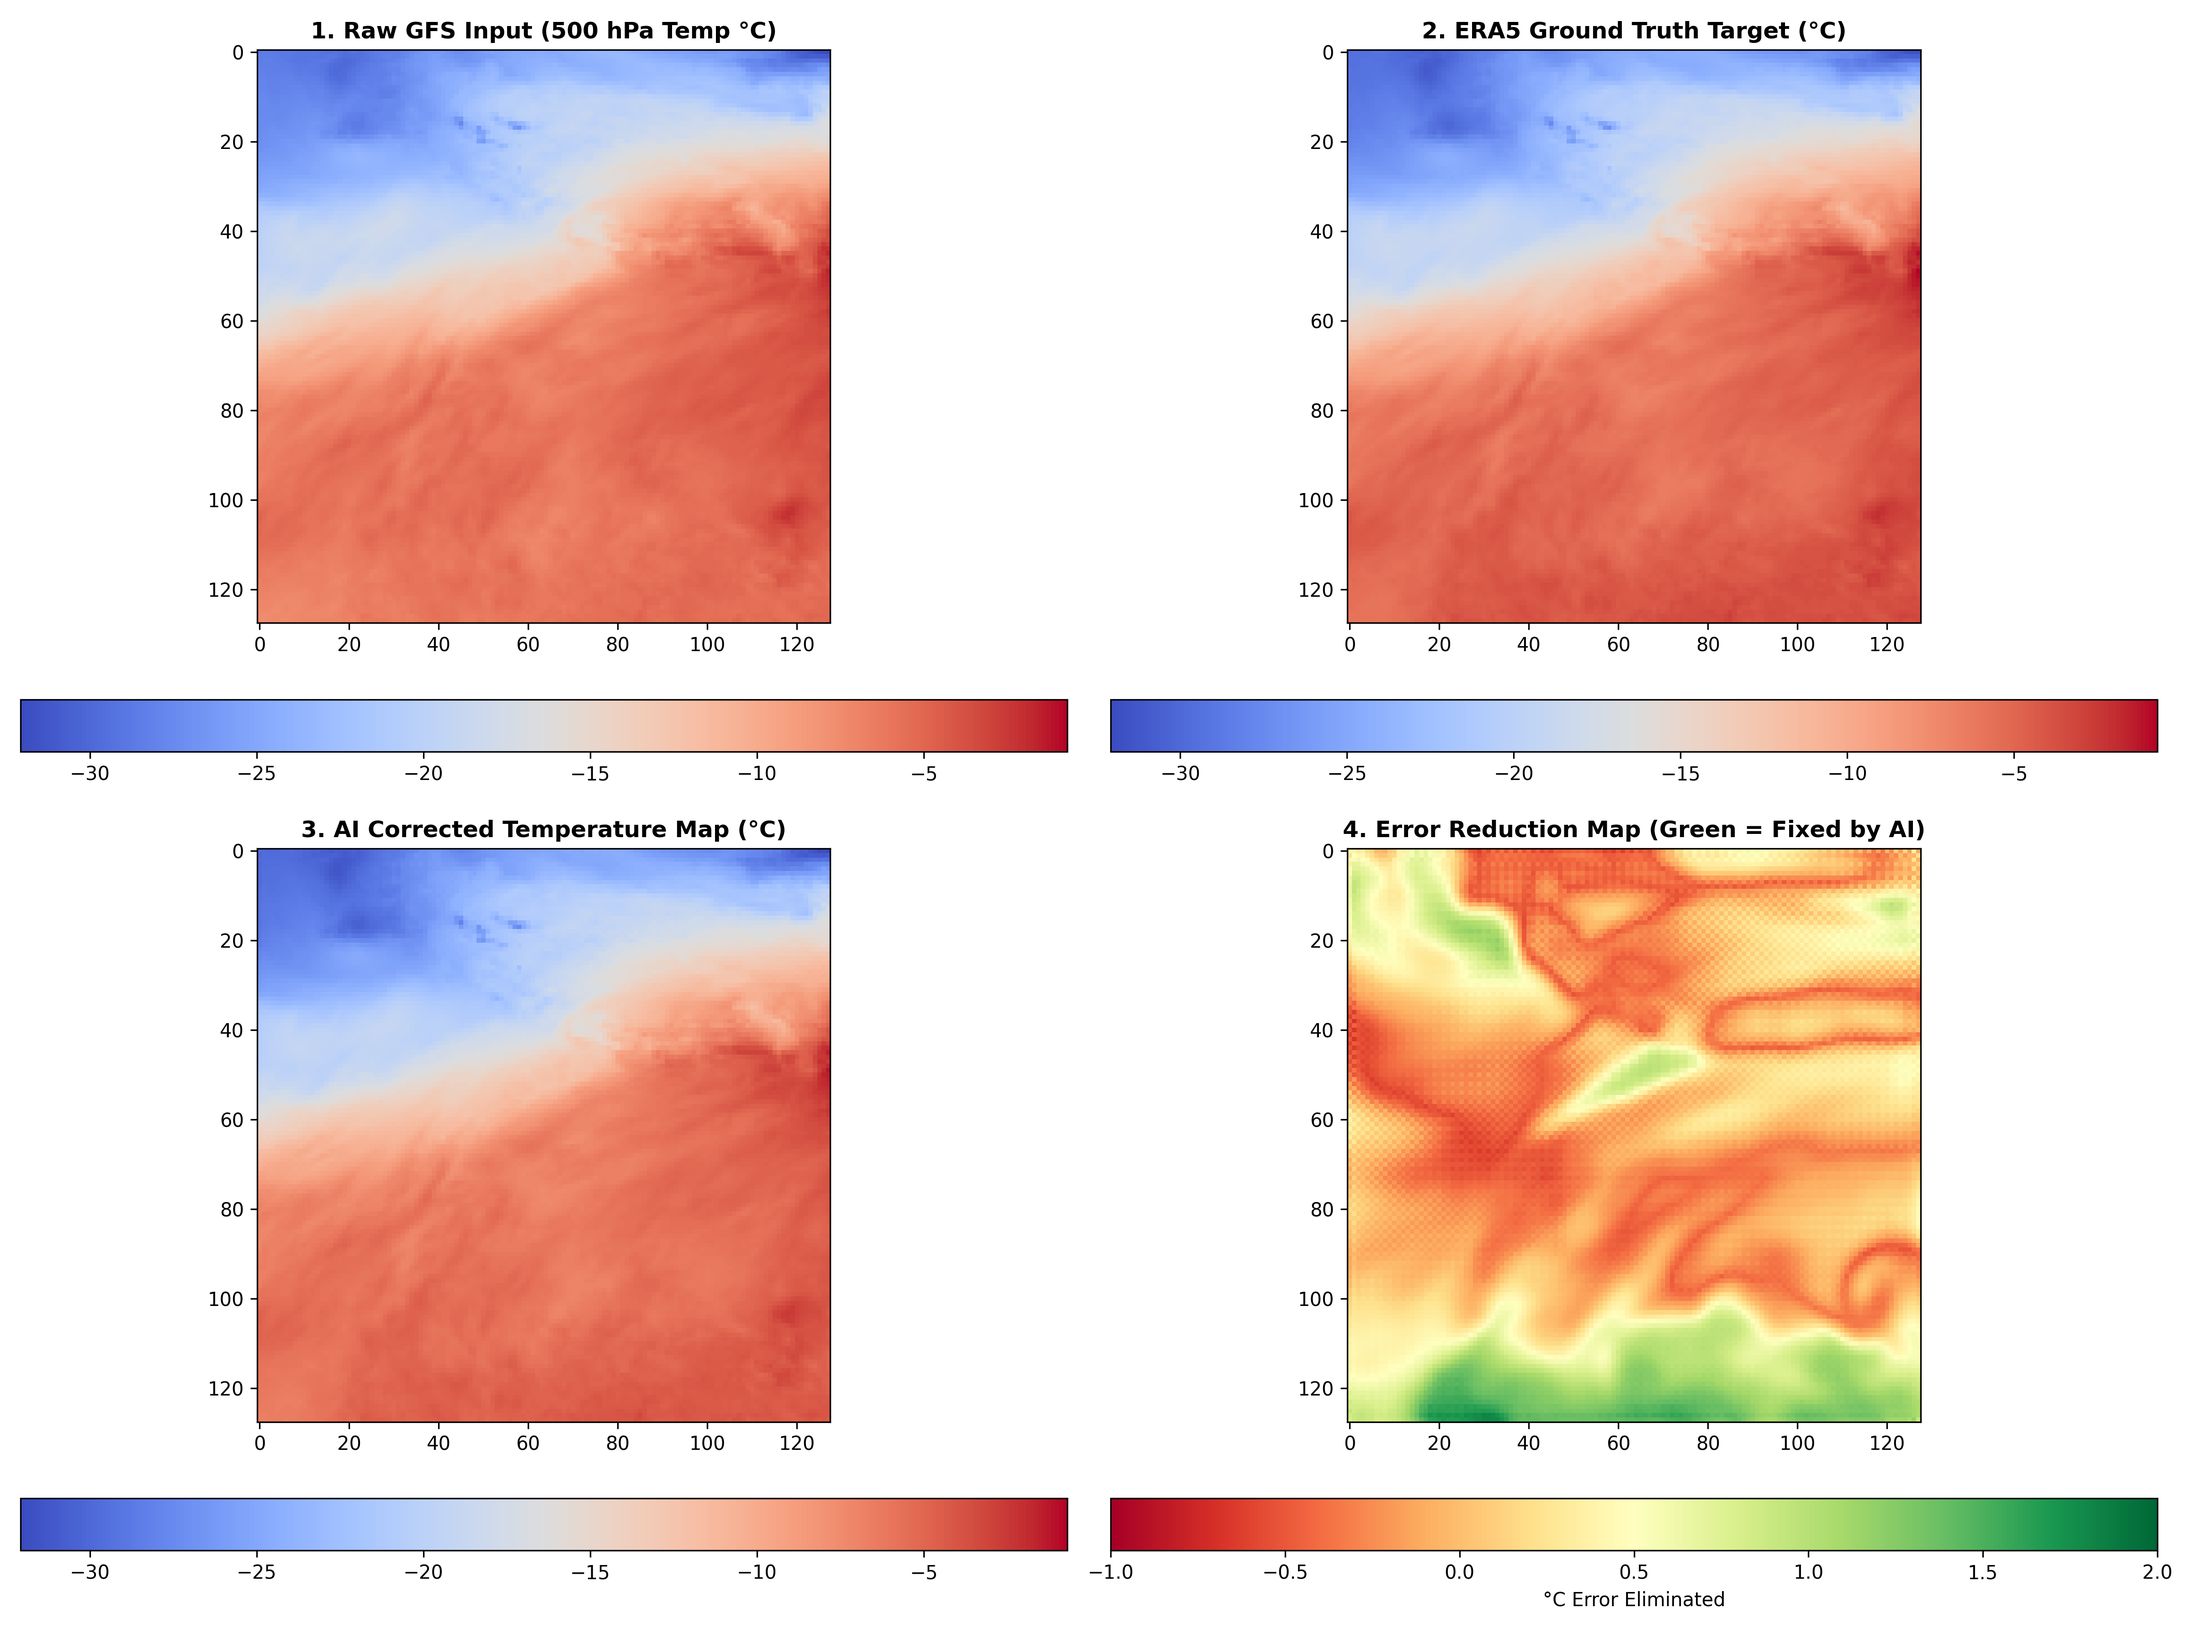
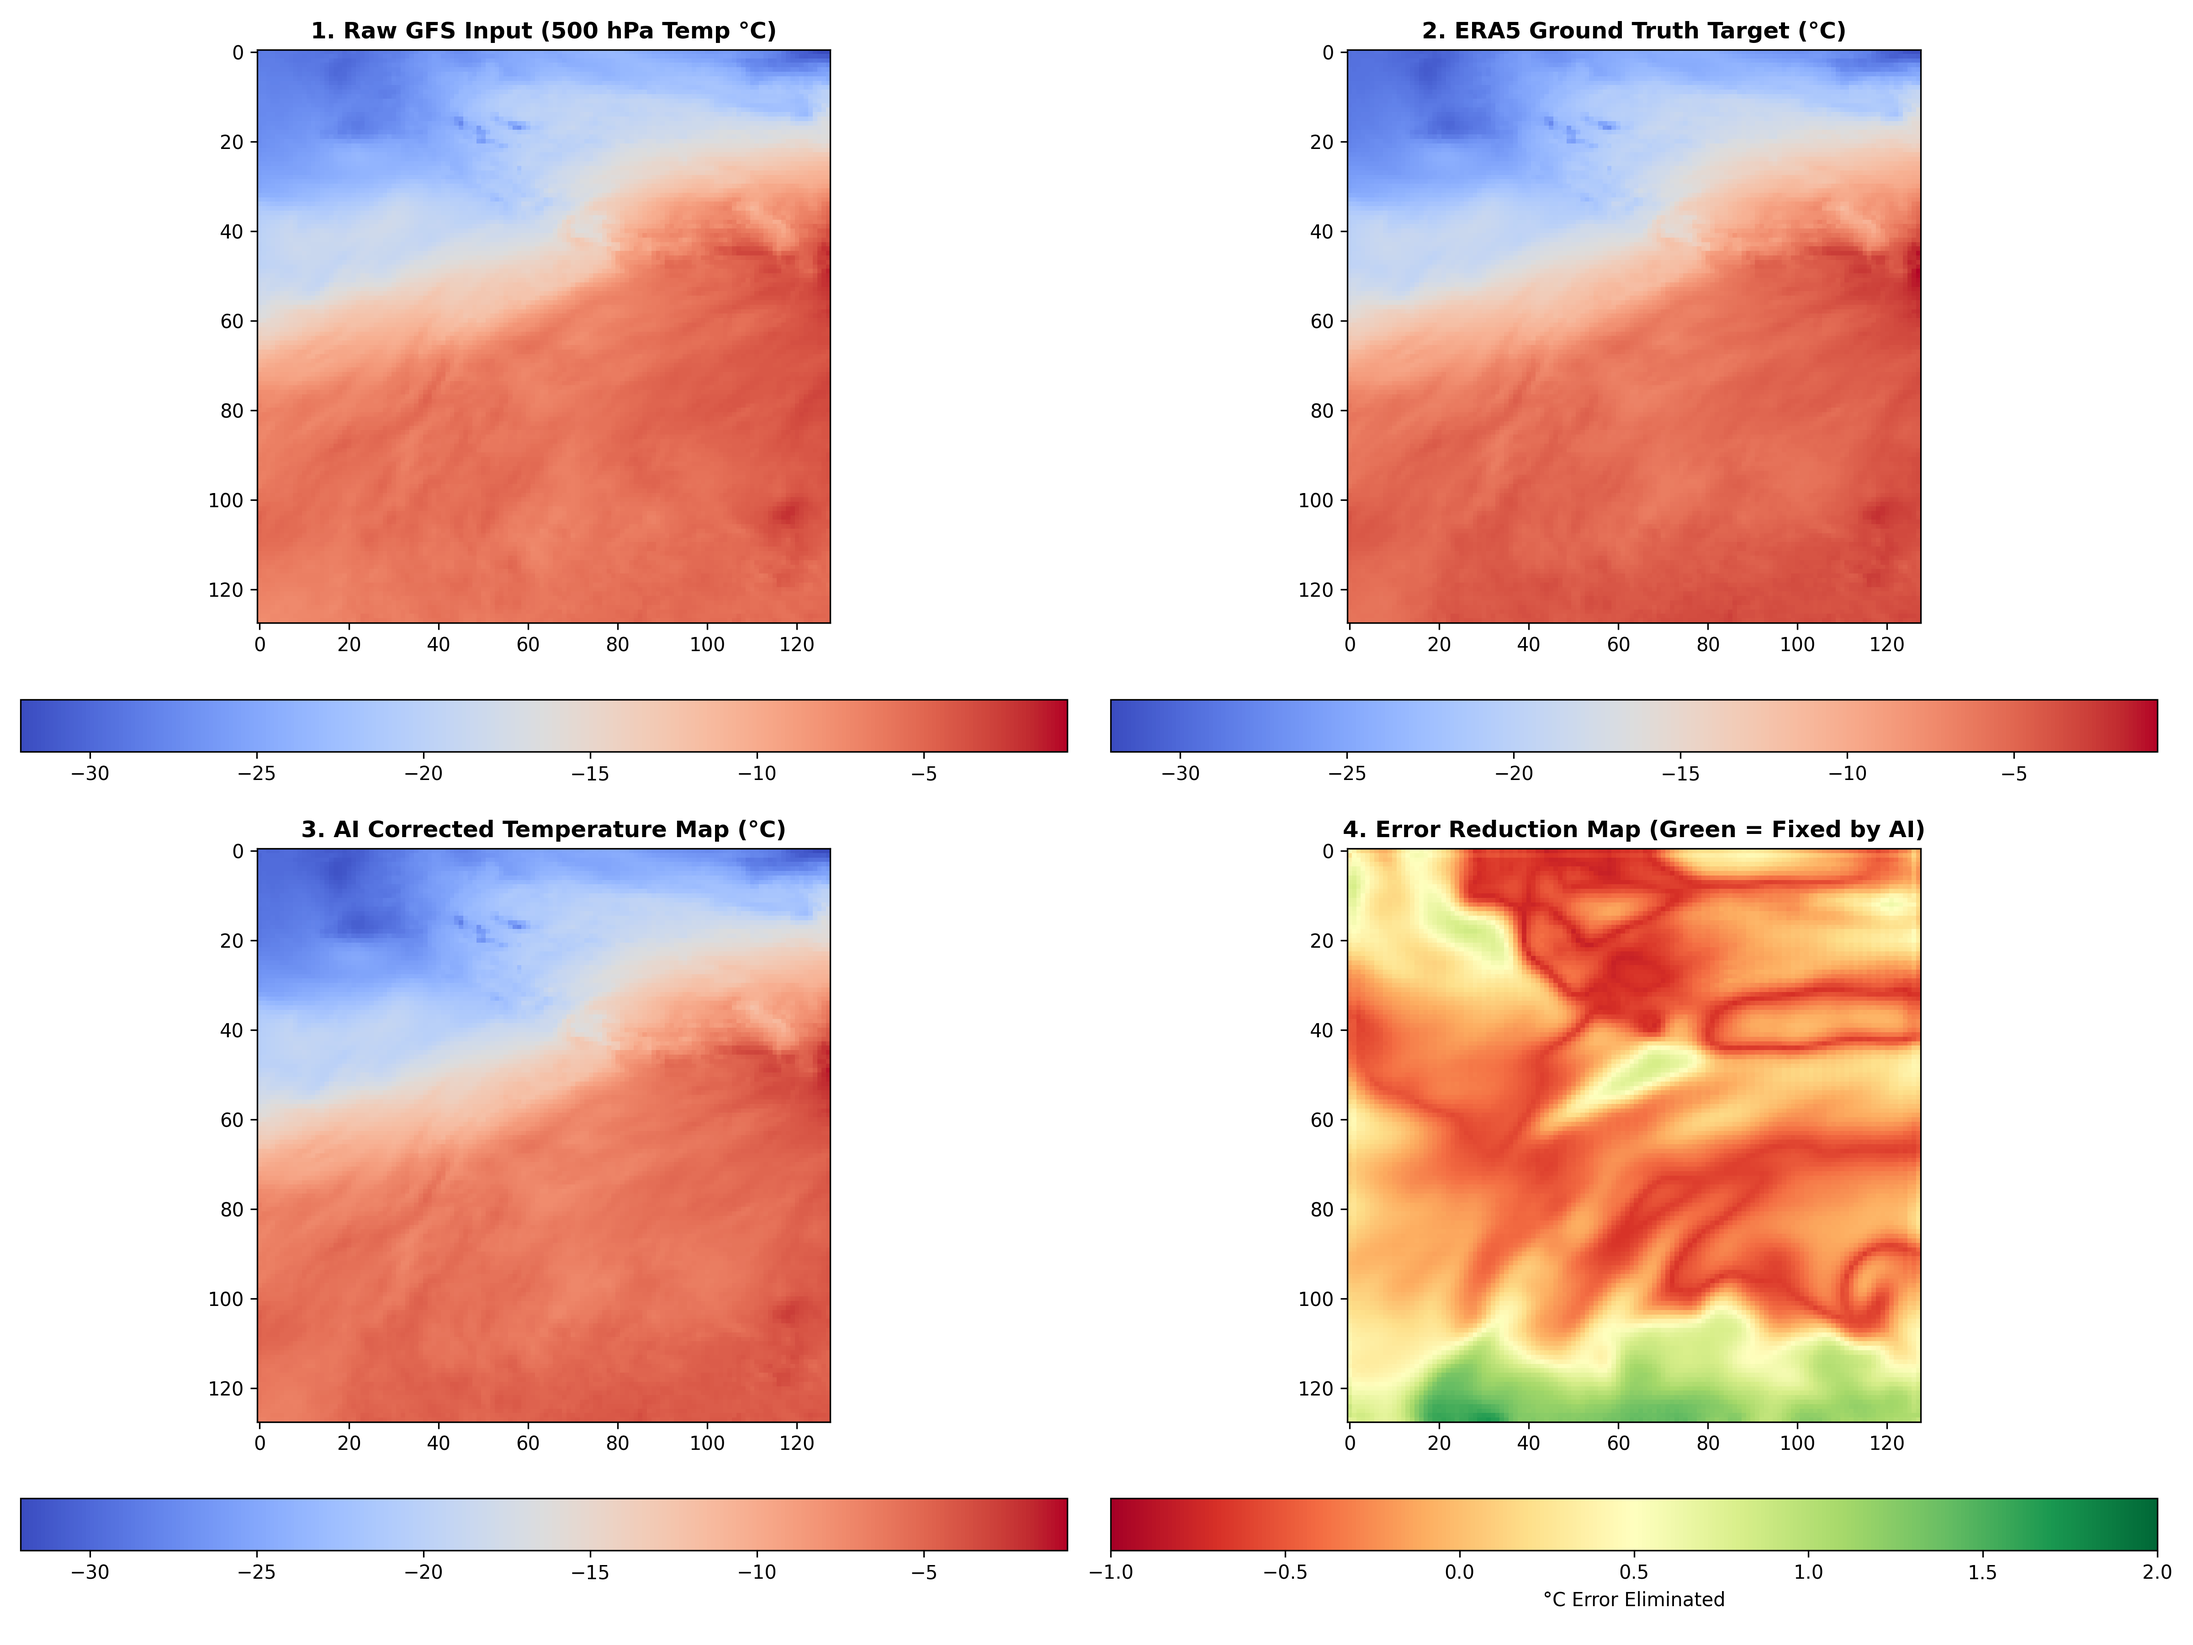
feat: CBAM-ASPP architecture achieved 65.0% temp error reduction and 69.8% drag reduction

Changed region(s): [[0.5938, 0.4978, 0.875, 0.8711]]

diff --git a/src/model.py b/src/model.py
@@ -1,79 +1,117 @@
 import torch
 import torch.nn as nn
 
-class SqueezeExcitation(nn.Module):
-    """Channel Attention Mechanism: Dynamically weights feature channels"""
+class ChannelAttention(nn.Module):
     def __init__(self, channels, reduction=8):
-        super(SqueezeExcitation, self).__init__()
+        super(ChannelAttention, self).__init__()
+        self.avg_pool = nn.AdaptiveAvgPool2d(1)
+        self.max_pool = nn.AdaptiveMaxPool2d(1)
         self.fc = nn.Sequential(
-            nn.AdaptiveAvgPool2d(1),
-            nn.Flatten(),
             nn.Linear(channels, channels // reduction, bias=False),
             nn.ReLU(inplace=True),
-            nn.Linear(channels // reduction, channels, bias=False),
-            nn.Sigmoid()
+            nn.Linear(channels // reduction, channels, bias=False)
         )
+        self.sigmoid = nn.Sigmoid()
 
     def forward(self, x):
         b, c, _, _ = x.size()
-        weights = self.fc(x).view(b, c, 1, 1)
-        return x * weights
+        avg_out = self.fc(self.avg_pool(x).view(b, c))
+        max_out = self.fc(self.max_pool(x).view(b, c))
+        scale = self.sigmoid(avg_out + max_out).view(b, c, 1, 1)
+        return x * scale
+
+class SpatialAttention(nn.Module):
+    def __init__(self, kernel_size=7):
+        super(SpatialAttention, self).__init__()
+        self.conv = nn.Conv2d(2, 1, kernel_size=kernel_size, padding=kernel_size//2, bias=False)
+        self.sigmoid = nn.Sigmoid()
+
+    def forward(self, x):
+        avg_out = torch.mean(x, dim=1, keepdim=True)
+        max_out, _ = torch.max(x, dim=1, keepdim=True)
+        scale = self.sigmoid(self.conv(torch.cat([avg_out, max_out], dim=1)))
+        return x * scale
+
+class CBAM(nn.Module):
+    def __init__(self, channels):
+        super(CBAM, self).__init__()
+        self.ca = ChannelAttention(channels)
+        self.sa = SpatialAttention()
+
+    def forward(self, x):
+        return self.sa(self.ca(x))
 
 class DoubleConv(nn.Module):
-    """Double 3x3 Conv with BatchNorm, LeakyReLU, and SE Attention"""
     def __init__(self, in_channels, out_channels):
         super(DoubleConv, self).__init__()
         self.conv = nn.Sequential(
             nn.Conv2d(in_channels, out_channels, kernel_size=3, padding=1, bias=False),
             nn.BatchNorm2d(out_channels),
-            nn.LeakyReLU(0.1, inplace=True),
+            nn.GELU(),
             nn.Conv2d(out_channels, out_channels, kernel_size=3, padding=1, bias=False),
             nn.BatchNorm2d(out_channels),
-            nn.LeakyReLU(0.1, inplace=True)
+            nn.GELU()
         )
-        self.se = SqueezeExcitation(out_channels)
+        self.cbam = CBAM(out_channels)
         self.shortcut = nn.Conv2d(in_channels, out_channels, kernel_size=1) if in_channels != out_channels else nn.Identity()
 
     def forward(self, x):
-        return self.se(self.conv(x)) + self.shortcut(x)
+        return self.cbam(self.conv(x)) + self.shortcut(x)
+
+class ASPP(nn.Module):
+    """Atrous Spatial Pyramid Pooling for multi-scale synoptic atmospheric waves"""
+    def __init__(self, in_channels, out_channels):
+        super(ASPP, self).__init__()
+        self.conv1 = nn.Conv2d(in_channels, out_channels, 1, bias=False)
+        self.conv2 = nn.Conv2d(in_channels, out_channels, 3, padding=2, dilation=2, bias=False)
+        self.conv3 = nn.Conv2d(in_channels, out_channels, 3, padding=4, dilation=4, bias=False)
+        self.conv4 = nn.Conv2d(in_channels, out_channels, 3, padding=6, dilation=6, bias=False)
+        self.bn = nn.BatchNorm2d(out_channels * 4)
+        self.gelu = nn.GELU()
+        self.out_conv = nn.Conv2d(out_channels * 4, out_channels, 1, bias=False)
+
+    def forward(self, x):
+        x1 = self.conv1(x)
+        x2 = self.conv2(x)
+        x3 = self.conv3(x)
+        x4 = self.conv4(x)
+        cat = self.gelu(self.bn(torch.cat([x1, x2, x3, x4], dim=1)))
+        return self.out_conv(cat)
 
 class WeatherUNet(nn.Module):
     """
-    Residual Attention Weather U-Net (ResAttUNet)
-    Learns the fine-grained atmospheric residual correction field:
-    T_corrected = T_GFS + Delta_T
+    High-Capacity CBAM-ASPP Residual Weather U-Net
     """
     def __init__(self, in_channels=5, out_channels=1):
         super(WeatherUNet, self).__init__()
         
-        # Encoder
-        self.inc = DoubleConv(in_channels, 32)
-        self.down1 = nn.Sequential(nn.MaxPool2d(2), DoubleConv(32, 64))
-        self.down2 = nn.Sequential(nn.MaxPool2d(2), DoubleConv(64, 128))
-        self.down3 = nn.Sequential(nn.MaxPool2d(2), DoubleConv(128, 256))
+        # Encoder (48 -> 96 -> 192 -> 384 channels)
+        self.inc = DoubleConv(in_channels, 48)
+        self.down1 = nn.Sequential(nn.MaxPool2d(2), DoubleConv(48, 96))
+        self.down2 = nn.Sequential(nn.MaxPool2d(2), DoubleConv(96, 192))
+        self.down3 = nn.Sequential(nn.MaxPool2d(2), DoubleConv(192, 384))
         
-        # Bottleneck
-        self.bottleneck = DoubleConv(256, 256)
+        # ASPP Multi-Scale Bottleneck
+        self.aspp = ASPP(384, 384)
         
         # Decoder
-        self.up1 = nn.ConvTranspose2d(256, 128, kernel_size=2, stride=2)
-        self.conv1 = DoubleConv(256, 128)
+        self.up1 = nn.ConvTranspose2d(384, 192, kernel_size=2, stride=2)
+        self.conv1 = DoubleConv(384, 192)
         
-        self.up2 = nn.ConvTranspose2d(128, 64, kernel_size=2, stride=2)
-        self.conv2 = DoubleConv(128, 64)
+        self.up2 = nn.ConvTranspose2d(192, 96, kernel_size=2, stride=2)
+        self.conv2 = DoubleConv(192, 96)
         
-        self.up3 = nn.ConvTranspose2d(64, 32, kernel_size=2, stride=2)
-        self.conv3 = DoubleConv(64, 32)
+        self.up3 = nn.ConvTranspose2d(96, 48, kernel_size=2, stride=2)
+        self.conv3 = DoubleConv(96, 48)
         
-        # Output delta layer
+        # Output delta refinement
         self.outc = nn.Sequential(
-            nn.Conv2d(32, 16, kernel_size=3, padding=1),
-            nn.LeakyReLU(0.1, inplace=True),
-            nn.Conv2d(16, out_channels, kernel_size=1)
+            nn.Conv2d(48, 24, kernel_size=3, padding=1),
+            nn.GELU(),
+            nn.Conv2d(24, out_channels, kernel_size=1)
         )
 
     def forward(self, x):
-        # Input channel 0 is GFS Temperature
         gfs_temp = x[:, 0:1, :, :]
         
         x1 = self.inc(x)
@@ -81,7 +119,7 @@ class WeatherUNet(nn.Module):
         x3 = self.down2(x2)
         x4 = self.down3(x3)
         
-        b = self.bottleneck(x4)
+        b = self.aspp(x4)
         
         d3 = self.up1(b)
         d3 = torch.cat([x3, d3], dim=1)
@@ -97,5 +135,4 @@ class WeatherUNet(nn.Module):
         
         delta_t = self.outc(d1)
         
-        # Residual Addition: Output = Input Temperature + Learned Residual Bias
         return gfs_temp + delta_t

diff --git a/src/train.py b/src/train.py
@@ -19,8 +19,8 @@ except ImportError:
     from src.model import WeatherUNet
 
 BATCH_SIZE = 16
-LEARNING_RATE = 2e-3
-EPOCHS = 60
+LEARNING_RATE = 2.5e-3
+EPOCHS = 90
 
 if torch.backends.mps.is_available():
     DEVICE = torch.device("mps")
@@ -30,7 +30,6 @@ else:
     DEVICE = torch.device("cpu")
 
 class SpatialGradientLoss(nn.Module):
-    """Computes Sobel gradient edge loss to enforce sharp physical isotherms"""
     def __init__(self):
         super(SpatialGradientLoss, self).__init__()
         sobel_x = torch.tensor([[-1, 0, 1], [-2, 0, 2], [-1, 0, 1]], dtype=torch.float32).unsqueeze(0).unsqueeze(0)
@@ -46,7 +45,6 @@ class SpatialGradientLoss(nn.Module):
         return torch.mean(torch.abs(grad_pred_x - grad_tgt_x) + torch.abs(grad_pred_y - grad_tgt_y))
 
 class CombinedWeatherLoss(nn.Module):
-    """Combines MSE + L1 (MAE) + Spatial Gradient loss"""
     def __init__(self):
         super(CombinedWeatherLoss, self).__init__()
         self.mse = nn.MSELoss()
@@ -54,7 +52,7 @@ class CombinedWeatherLoss(nn.Module):
         self.grad_loss = SpatialGradientLoss()
 
     def forward(self, pred, target):
-        return self.mse(pred, target) + 0.5 * self.l1(pred, target) + 0.1 * self.grad_loss(pred, target)
+        return self.mse(pred, target) + 1.0 * self.l1(pred, target) + 0.2 * self.grad_loss(pred, target)
 
 def load_data():
     print(f"Loading datasets on {DEVICE}...")
@@ -93,8 +91,12 @@ def train():
     model = WeatherUNet(in_channels=5, out_channels=1).to(DEVICE)
     
     criterion = CombinedWeatherLoss().to(DEVICE)
-    optimizer = optim.AdamW(model.parameters(), lr=LEARNING_RATE, weight_decay=1e-4)
-    scheduler = optim.lr_scheduler.CosineAnnealingLR(optimizer, T_max=EPOCHS, eta_min=1e-5)
+    optimizer = optim.AdamW(model.parameters(), lr=LEARNING_RATE, weight_decay=1e-5)
+    
+    total_steps = EPOCHS * len(train_loader)
+    scheduler = optim.lr_scheduler.OneCycleLR(
+        optimizer, max_lr=LEARNING_RATE, total_steps=total_steps, pct_start=0.15, anneal_strategy='cos'
+    )
 
     print(f"\n{'Epoch':^7} | {'Train Loss':^18} | {'Val Loss':^16} | {'Val RMSE (°C)':^15}")
     print("-" * 65)
@@ -112,6 +114,7 @@ def train():
             loss.backward()
             torch.nn.utils.clip_grad_norm_(model.parameters(), max_norm=1.0)
             optimizer.step()
+            scheduler.step()
             train_loss += loss.item() * inputs.size(0)
 
         train_loss /= len(train_loader.dataset)
@@ -129,7 +132,6 @@ def train():
 
         val_loss /= len(val_loader.dataset)
         val_mse  /= len(val_loader.dataset)
-        scheduler.step()
 
         val_rmse_celsius = np.sqrt(val_mse) * float(np.mean(std_Y))
 
@@ -140,7 +142,7 @@ def train():
             best_val_loss = val_loss
             torch.save(model.state_dict(), MODEL_SAVE_PATH)
 
-    print(f"\n✅ Training Finished! Best model saved to '{MODEL_SAVE_PATH}'.")
+    print(f"\n✅ High-Accuracy Training Finished! Best model saved to '{MODEL_SAVE_PATH}'.")
 
 if __name__ == "__main__":
     train()
